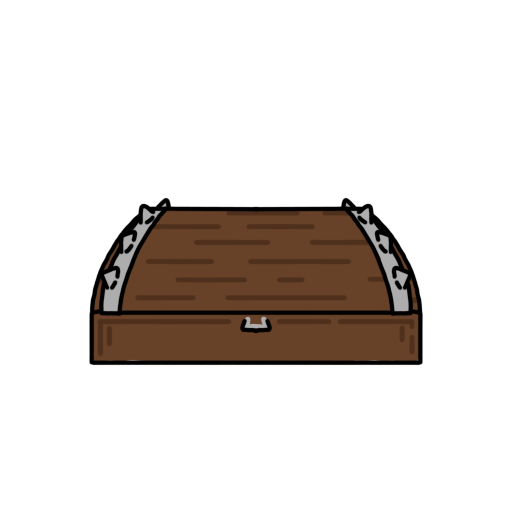
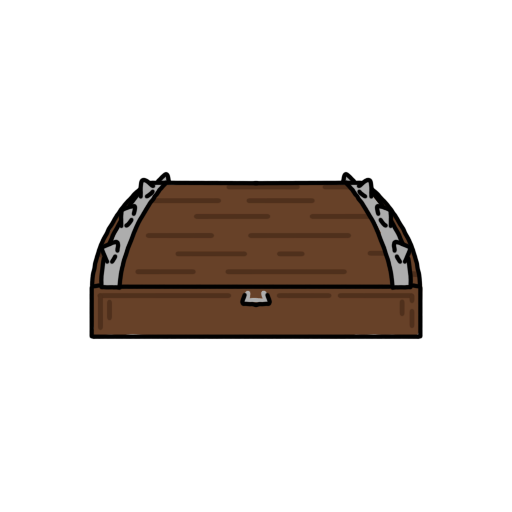
ton en schatkist colission

Changed region(s): [[0.1562, 0.3125, 0.8438, 0.7188]]

diff --git a/src/js/props/treasure.js b/src/js/props/treasure.js
@@ -7,7 +7,7 @@ import { bullet } from '../bullet.js'
 
 export class treasure extends Actor {
   constructor(target, posX, posY) {
-    super({ width: Resources.Treasure.width / 2, height: Resources.Treasure.height / 3.5});
+    super({ width: Resources.Treasure.width / 1.8, height: Resources.Treasure.height / 3});
     this.pos = new Vector(posX, posY);
     this.target = target;
   }
@@ -16,6 +16,9 @@ export class treasure extends Actor {
     this.graphics.use(Resources.Treasure.toSprite());
     this.scale = new Vector(0.4, 0.4);
     const currentScene = Engine.currentScene;
+
+    const treasure1 = new Barrier(this.pos.x, this.pos.y, Resources.Treasure.width /4,Resources.Treasure.height / 8)
+    currentScene.add(treasure1);
 
     this.on('collisionstart', (event) => {
       if (event.other instanceof bullet) {
@@ -30,11 +33,6 @@ export class treasure extends Actor {
         }
       }
     });
-    this.on('collisionstart', (event) => {
-      if (event.other instanceof Barrier) {
-        this.kill()
-      }
-    })
   }
 
   getRandomInt(max) {

diff --git a/src/js/ui/barrier.js b/src/js/ui/barrier.js
@@ -1,6 +1,7 @@
 import { Actor, Vector } from "excalibur"
 import * as ex from 'excalibur'
 import {Resources} from "../resources.js"
+import { treasure } from '../props/treasure.js'
 
 export class Barrier extends Actor {
 
@@ -13,5 +14,13 @@ export class Barrier extends Actor {
     }
 
     onInitialize() {
+        this.on('collisionend', (event) => {
+            if (event.other instanceof treasure) {
+              this.kill();
+            }
+            if (event.other instanceof ton) {
+                this.kill();
+              }
+          });
     }
 }
